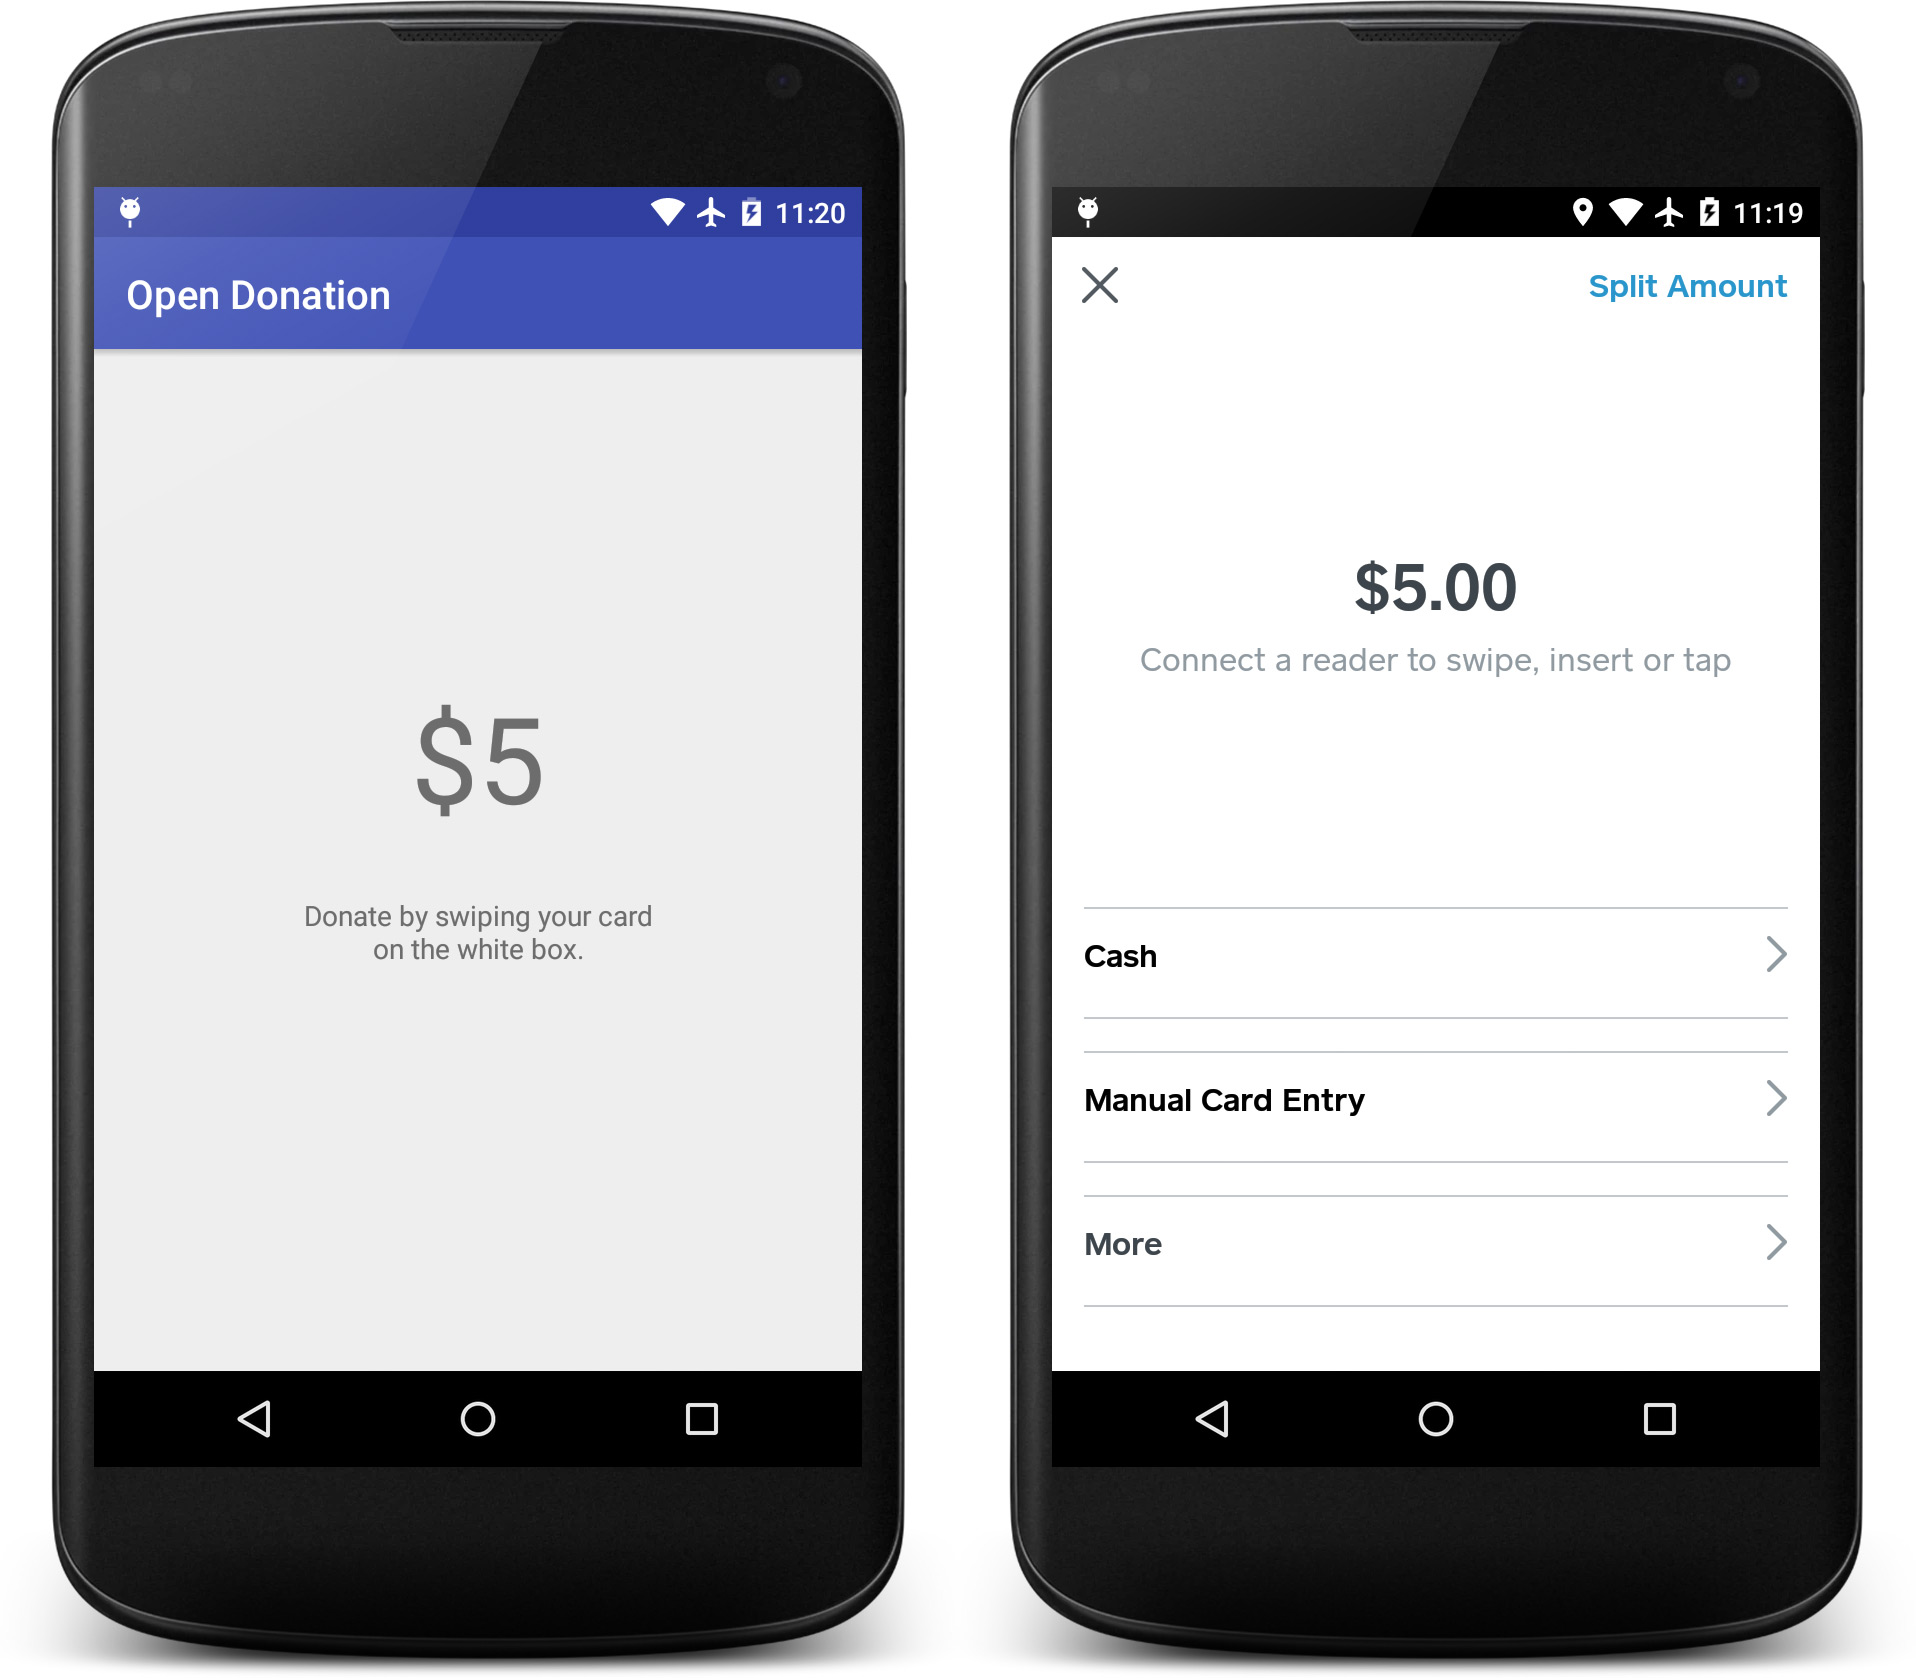
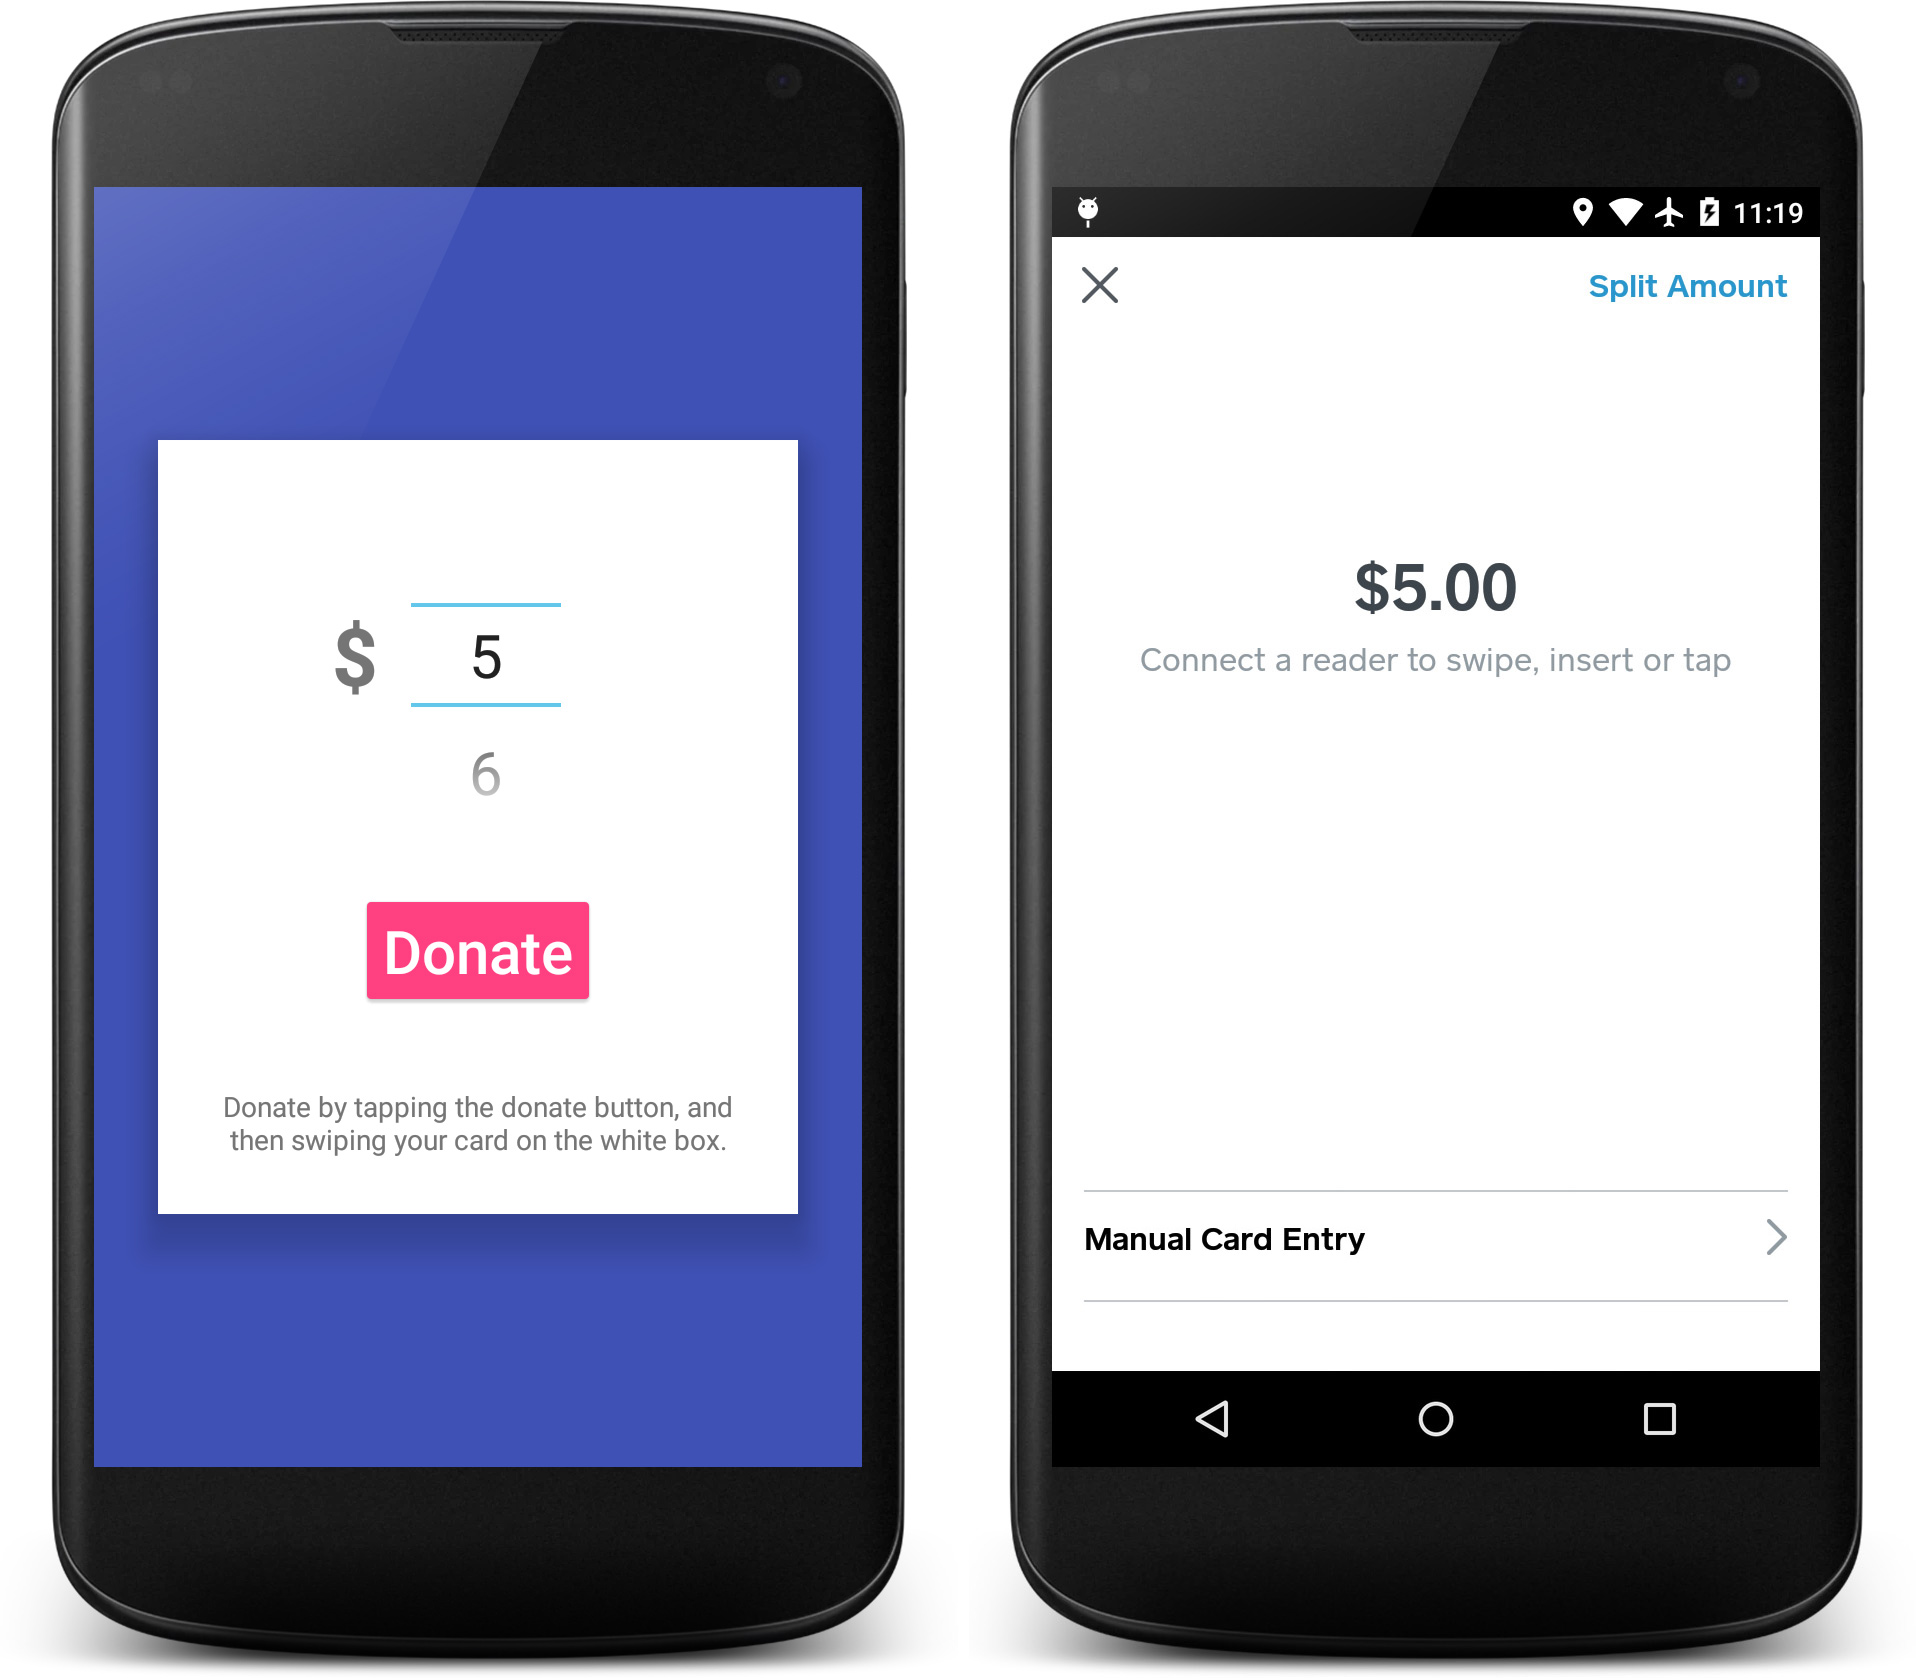
Updated OpenDonation to have a NumberPicker for donation amount selection. Also visual updates, and hid some system UI where possible.

diff --git a/app/src/main/java/com/sighmon/opendonation/MainActivity.java b/app/src/main/java/com/sighmon/opendonation/MainActivity.java
@@ -4,41 +4,117 @@ import android.app.Activity;
 import android.content.ActivityNotFoundException;
 import android.content.DialogInterface;
 import android.content.Intent;
+import android.os.Build;
+import android.support.v7.app.ActionBar;
 import android.support.v7.app.AlertDialog;
 import android.support.v7.app.AppCompatActivity;
 import android.os.Bundle;
+import android.util.ArraySet;
 import android.util.Log;
+import android.view.View;
+import android.view.Window;
+import android.view.WindowManager;
+import android.widget.Button;
+import android.widget.LinearLayout;
+import android.widget.NumberPicker;
 
 import com.squareup.sdk.pos.ChargeRequest;
 import com.squareup.sdk.pos.PosClient;
 import com.squareup.sdk.pos.PosSdk;
 
+import java.util.Arrays;
+import java.util.HashSet;
+import java.util.Set;
+
 import static com.squareup.sdk.pos.CurrencyCode.AUD;
 import static com.squareup.sdk.pos.CurrencyCode.USD;
+import static java.util.concurrent.TimeUnit.MILLISECONDS;
 
 public class MainActivity extends AppCompatActivity {
 
     // Square point of sale
     private PosClient posClient;
 
+    // Set any global variables
+    private Integer donationValue;
+    private Integer transactionTimeout;
+
+    public static final String TAG = "MainActivity";
+
     @Override
     protected void onCreate(Bundle savedInstanceState) {
         super.onCreate(savedInstanceState);
         setContentView(R.layout.activity_main);
 
+        // Set background image or colour
+        LinearLayout mainLinearLayout = (LinearLayout) findViewById(R.id.mainLinearLayout);
+        // To set a white background
+        mainLinearLayout.setBackgroundColor(getResources().getColor(R.color.colorPrimary));
+        // To set an image background
+//        mainLinearLayout.setBackground(getDrawable(R.drawable.ic_launcher_background));
+
+        // Set fullscreen
+        hideSystemUI();
+
+        // Hide the title bar
+        hideTitleBar();
+
+        // Keep the screen on
+        getWindow().addFlags(WindowManager.LayoutParams.FLAG_KEEP_SCREEN_ON);
+
         // Setup Square instance
         posClient = PosSdk.createClient(this, getString(R.string.square_client_id));
 
-        // Try a transaction
-        // TODO: get the user to tap the screen to start a transaction after one finishes or fails?
-        startTransaction();
+        // Setup default donation values
+        Integer minimumDonationValue = 5;
+        Integer maximumDonationValue = 99;
+        donationValue = 5;
+        transactionTimeout = 4; // in seconds
+
+        // Setup the donation amount picker
+        NumberPicker donationAmountPicker = (NumberPicker) findViewById(R.id.donationAmount);
+        donationAmountPicker.setMinValue(minimumDonationValue);
+        donationAmountPicker.setMaxValue(maximumDonationValue);
+        donationAmountPicker.setValue(donationValue);
+        donationAmountPicker.setWrapSelectorWheel(false);
+        donationAmountPicker.setDescendantFocusability(NumberPicker.FOCUS_BLOCK_DESCENDANTS);
+
+        // Set a listener for changes to the donation amount spinner
+        donationAmountPicker.setOnValueChangedListener(new NumberPicker.OnValueChangeListener() {
+            @Override
+            public void onValueChange(NumberPicker picker, int oldVal, int newVal) {
+                donationValue = newVal;
+            }
+        });
+
+        // Watch for donate button taps
+        Button submitButton = (Button) findViewById(R.id.submitButton);
+        submitButton.setOnClickListener(new Button.OnClickListener() {
+            @Override
+            public void onClick(View v) {
+                startTransaction();
+            }
+        });
     }
 
-    // To setup a transaction
-    // TODO: make the donation amount an app setting.
+    @Override
+    public void onWindowFocusChanged(boolean hasFocus) {
+        super.onWindowFocusChanged(hasFocus);
+
+        if (hasFocus) {
+            // Hide system UI
+            hideSystemUI();
+        }
+    }
+
+    // Setup a transaction
     private static final int CHARGE_REQUEST_CODE = 1;
     public void startTransaction() {
-        ChargeRequest request = new ChargeRequest.Builder(5_00, AUD).build();
+        ChargeRequest.Builder requestBuilder = new ChargeRequest.Builder(donationValue * 100, AUD);
+        // Limit to card use only
+        requestBuilder.restrictTendersTo(ChargeRequest.TenderType.CARD);
+        requestBuilder.autoReturn(transactionTimeout * 1000, MILLISECONDS);
+        ChargeRequest request = requestBuilder.build();
         try {
             Intent intent = posClient.createChargeIntent(request);
             startActivityForResult(intent, CHARGE_REQUEST_CODE);
@@ -67,6 +143,7 @@ public class MainActivity extends AppCompatActivity {
             }
 
             if (resultCode == Activity.RESULT_OK) {
+                // TODO: thank you page
                 ChargeRequest.Success success = posClient.parseChargeSuccess(data);
                 String message = getString(R.string.dialog_message_success_client_transaction_id) + success.clientTransactionId;
                 showDialog(getString(R.string.dialog_title_success), message, null);
@@ -84,10 +161,39 @@ public class MainActivity extends AppCompatActivity {
                             posClient.launchPointOfSale();
                         }
                     });
+                } else if (error.code == ChargeRequest.ErrorCode.TRANSACTION_CANCELED) {
+                    // TODO: cancelled page
+                    // showDialog(getString(R.string.dialog_title_transaction_cancelled), getString(R.string.dialog_message_transaction_cancelled), null);
                 } else {
+                    // TODO: error page
                     showDialog(getString(R.string.dialog_title_error_colon) + error.code, error.debugDescription, null);
                 }
             }
+        }
+    }
+
+    private void hideSystemUI() {
+        // TODO: work out how to hide system UI for intents too.
+        // Enables regular immersive mode.
+        // For "lean back" mode, remove SYSTEM_UI_FLAG_IMMERSIVE.
+        // Or for "sticky immersive," replace it with SYSTEM_UI_FLAG_IMMERSIVE_STICKY
+        View decorView = getWindow().getDecorView();
+        decorView.setSystemUiVisibility(
+                View.SYSTEM_UI_FLAG_IMMERSIVE_STICKY
+                        // Set the content to appear under the system bars so that the
+                        // content doesn't resize when the system bars hide and show.
+                        | View.SYSTEM_UI_FLAG_LAYOUT_STABLE
+                        | View.SYSTEM_UI_FLAG_LAYOUT_HIDE_NAVIGATION
+                        | View.SYSTEM_UI_FLAG_LAYOUT_FULLSCREEN
+                        // Hide the nav bar and status bar
+                        | View.SYSTEM_UI_FLAG_HIDE_NAVIGATION
+                        | View.SYSTEM_UI_FLAG_FULLSCREEN);
+    }
+
+    public void hideTitleBar() {
+        ActionBar actionBar = this.getSupportActionBar();
+        if (actionBar != null) {
+            actionBar.hide();
         }
     }
 }
